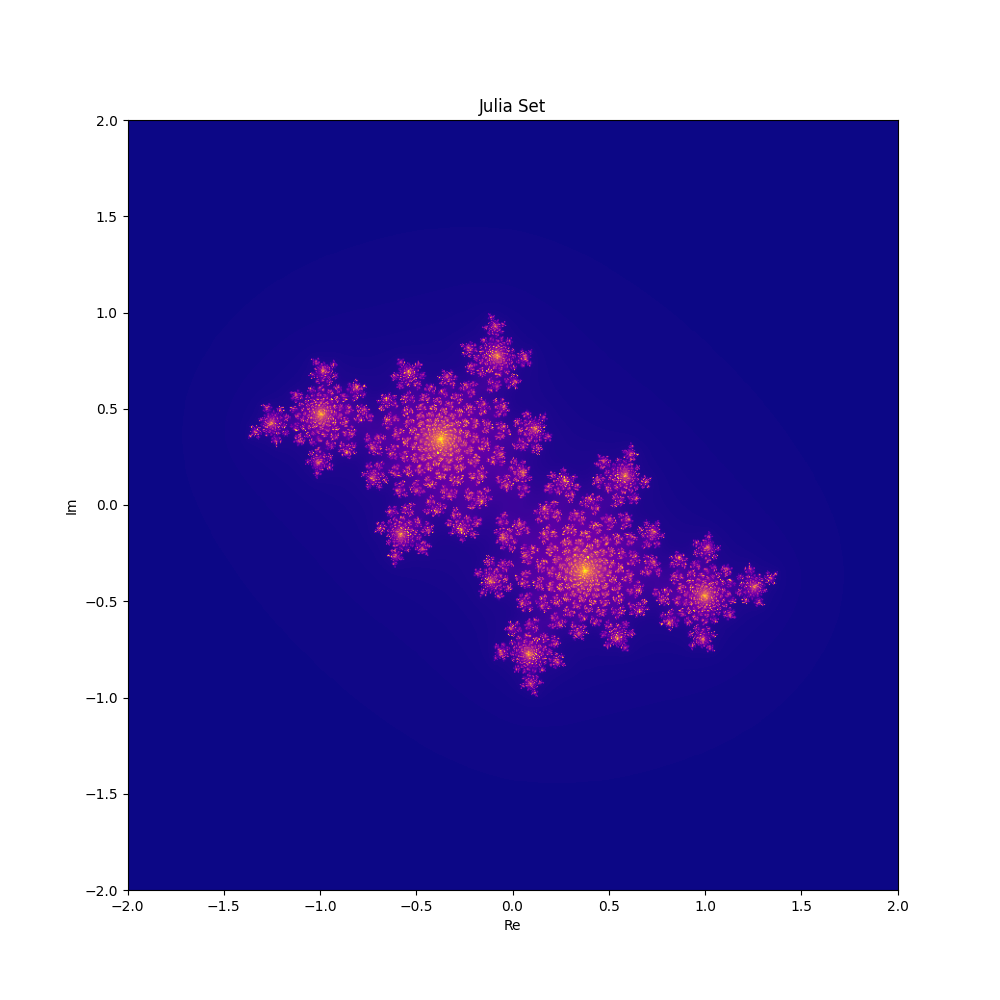
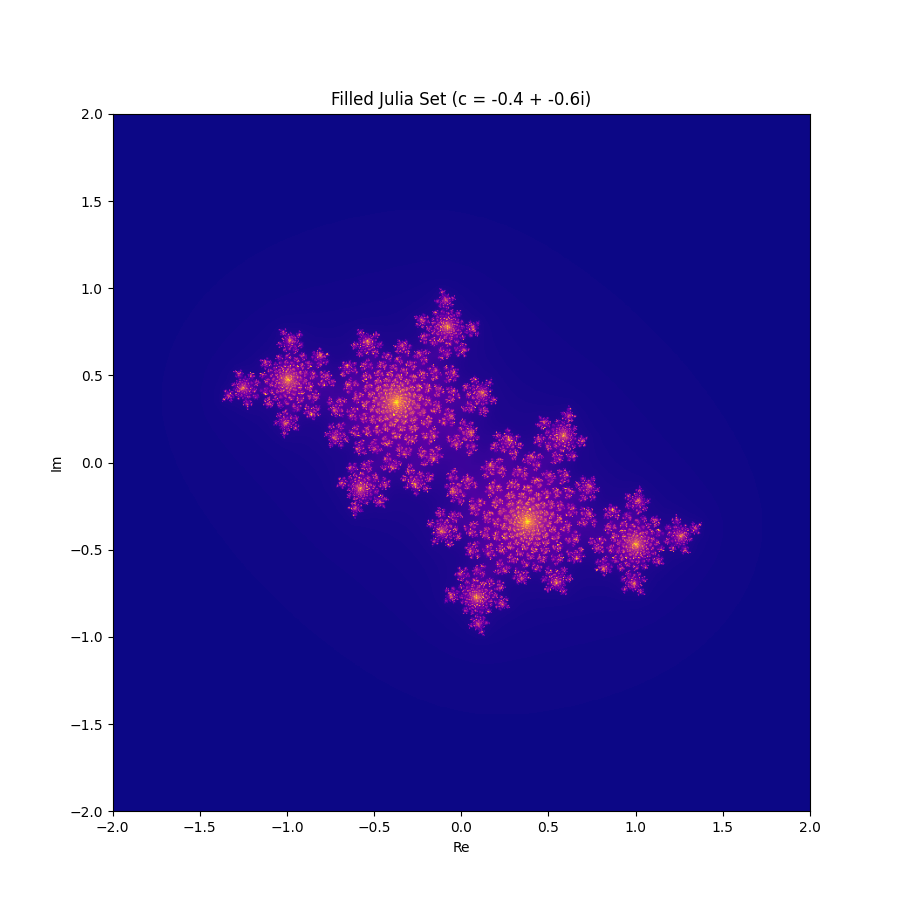
Added chaos game

Changed region(s): [[0.0622, 0.0917, 0.9333, 0.9476], [0.2489, 0.3057, 0.7778, 0.7031]]

diff --git a/chaos_game.py b/chaos_game.py
@@ -1,0 +1,51 @@
+import matplotlib.pyplot as plt
+import numpy as np
+
+
+def random_point_in_convex_polygon(attractors):
+    """
+    Generate a random point inside the convex polygon defined by `attractors`.
+
+    :param attractors: A list of [x, y] coordinates defining the convex polygon's vertices.
+    :return: A random point [x, y] inside the polygon.
+    """
+    weights = np.random.rand(len(attractors))
+    weights /= weights.sum()
+    point = weights @ attractors
+    return point
+
+
+def plot_chaos_game(attractors, iterations, scale=0.5):
+    """
+    Visualize fractals generated by the chaos game with a random initial point inside the convex hull of attractor points.
+
+    :param attractors: A list of coordinates defining the attractor points.
+    :param iterations: Number of iterations to run the chaos game.
+    :param fraction: Fractional distance to move towards the chosen attractor.
+    """
+    attractors = np.array(attractors)
+
+    # Choose an initial point inside the convex region formed by the attractors
+    point = random_point_in_convex_polygon(attractors)
+
+    points = [point]
+
+    for _ in range(iterations):
+        attractor = attractors[np.random.randint(len(attractors))]
+        point = point * scale + attractor * scale
+        points.append(point)
+
+    points = np.array(points)
+
+    plt.figure(figsize=(8, 8))
+    plt.scatter(points[:, 0], points[:, 1], s=0.1, color="black")
+    plt.axis("equal")
+    plt.axis("off")
+    plt.show()
+
+
+# Example usage
+# Sierpinski Triangle attractors
+attractors = [[0, 0], [0.5, np.sqrt(3) / 2], [1, 0]]
+
+plot_chaos_game(attractors, 50000, scale=0.5)

diff --git a/julia.py b/julia.py
@@ -2,7 +2,6 @@ import matplotlib.pyplot as plt
 import numpy as np
 
 
-# Define the function for iteration: x_n+1 = x_n^2 + c
 class JuliaFunction:
     def __init__(self, c):
         self.c = c
@@ -36,7 +35,7 @@ def julia_set(func, xlim=(-2, 2), ylim=(-2, 2), width=800, height=800, max_iter=
     plt.imshow(img, extent=(xlim[0], xlim[1], ylim[0], ylim[1]), cmap="plasma")
     plt.xlabel("Re")
     plt.ylabel("Im")
-    plt.title("Julia Set")
+    plt.title(f"Filled Julia Set (c = {func.c.real} + {func.c.imag}i)")
     plt.show()
 
 

diff --git a/ifs.py b/ifs.py
@@ -50,7 +50,7 @@ if __name__ == "__main__":
     ]
 
     # Initial space - a square
-    # initial_points = np.array([[x, y] for x in np.linspace(0, 1, 100) for y in np.linspace(0, 1, 100)])
+    # e.g. initial_points = np.array([[x, y] for x in np.linspace(0, 1, 100) for y in np.linspace(0, 1, 100)])
     # Initial space - a line segment
     initial_points = np.array([[0, y] for y in np.linspace(0, 1, 1000)])
 

diff --git a/README.md b/README.md
@@ -6,4 +6,7 @@ Some code I wrote for visualizing (generalized) fractals when taking PMATH 370 f
 
 ![julia](images/julia.png)
 
+![chaos_game](images/chaos_game.png)
+
 ![ifs](images/ifs.png)
+
